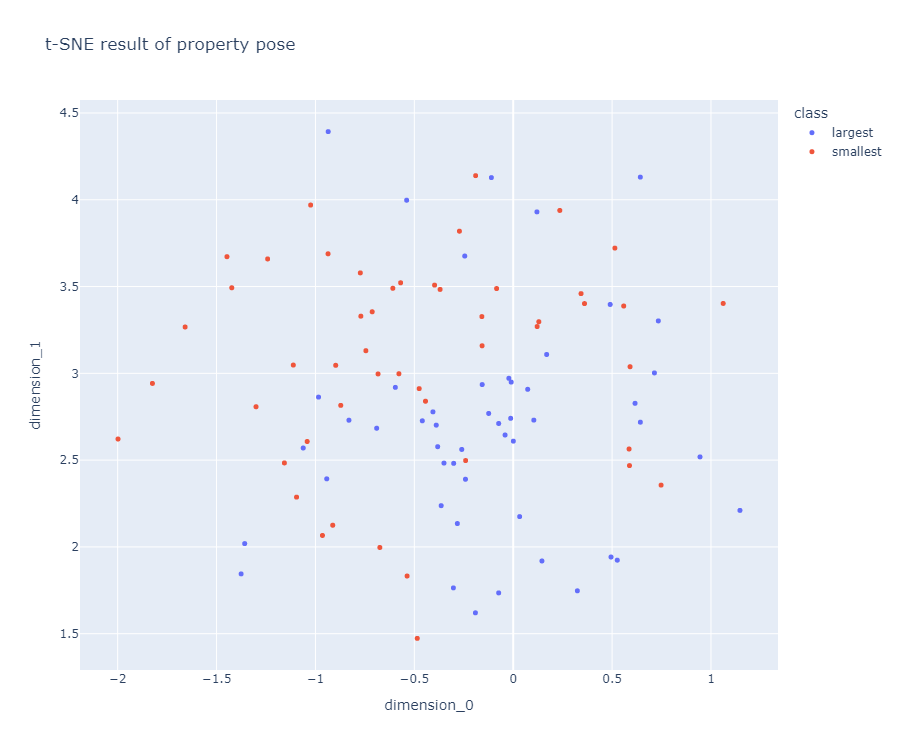
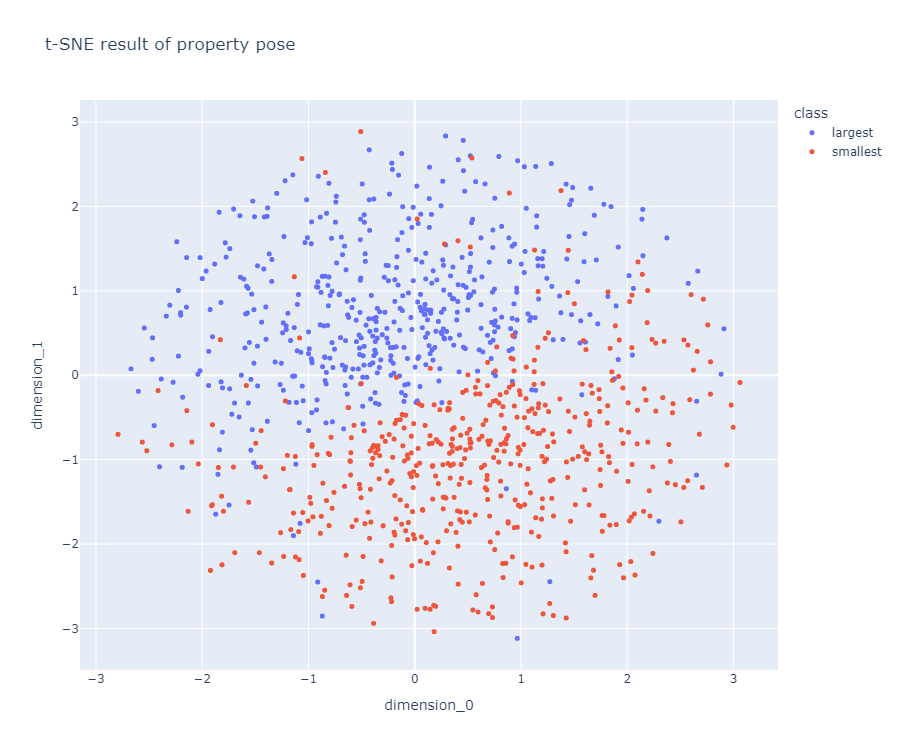
ADD: test result with 120K samples & top/bottom 500

diff --git a/2025_05_02_OhLoRA_v2/stylegan/stylegan_vectorfind_v6/run_vector_find.py b/2025_05_02_OhLoRA_v2/stylegan/stylegan_vectorfind_v6/run_vector_find.py
@@ -35,7 +35,7 @@ BATCH_SIZE = 20
 #                                    'mouth_cnn_score': list(float),
 #                                    'pose_cnn_score': list(float)}
 
-def sample_z_and_compute_property_scores(finetune_v1_generator, property_score_cnn, n=3000):
+def sample_z_and_compute_property_scores(finetune_v1_generator, property_score_cnn, n=120000):
     save_dir = f'{PROJECT_DIR_PATH}/stylegan/stylegan_vectorfind_v6/inference_test_during_training'
 
     z = np.random.normal(0, 1, size=(n, ORIGINAL_HIDDEN_DIMS_Z)).astype(np.float64)
@@ -101,7 +101,7 @@ def sample_z_and_compute_property_scores(finetune_v1_generator, property_score_c
 #                          'mouth_largest': list(int), 'mouth_smallest': list(int),
 #                          'pose_largest': list(int), 'pose_smallest': list(int)}
 
-def extract_best_and_worst_k_images(property_scores, k=50):
+def extract_best_and_worst_k_images(property_scores, k=500):
 
     # sort scores with index
     eyes_cnn_scores_with_idx = []

diff --git a/2025_05_02_OhLoRA_v2/stylegan/run_stylegan_vectorfind_v6.py b/2025_05_02_OhLoRA_v2/stylegan/run_stylegan_vectorfind_v6.py
@@ -13,7 +13,7 @@ IMAGE_RESOLUTION = 256
 
 ORIGINAL_HIDDEN_DIMS_Z = 512
 ORIGINALLY_PROPERTY_DIMS_Z = 3  # 원래 property (eyes, mouth, pose) 목적으로 사용된 dimension 값
-TEST_IMG_CASES = 20
+TEST_IMG_CASES = 50
 
 
 # Property Score 값을 변경하기 위해 latent vector z 에 가감할 벡터 정보 반환
@@ -68,7 +68,7 @@ def run_image_generation_test(finetune_v1_generator, eyes_vector, mouth_vector, 
         save_image(os.path.join(save_dir, f'case_{i:02d}_as_original.jpg'), images[0])
 
         for vector_name, vector in zip(vector_names, vectors):
-            pms = [-3.0, -1.0, 1.0, 3.0]
+            pms = [-2.0, -0.67, 0.67, 2.0]
 
             for pm_idx, pm in enumerate(pms):
                 with torch.no_grad():

diff --git a/2025_05_02_OhLoRA_v2/stylegan/stylegan_vectorfind_v6/svm_train_report/svm_train_report.md b/2025_05_02_OhLoRA_v2/stylegan/stylegan_vectorfind_v6/svm_train_report/svm_train_report.md
@@ -1,3 +1,36 @@
+## 2025.05.06 22:38
+
+* total synthesized samples = **120,000**
+* use each property score top **500 (= 0.42%)** & bottom **500 (= 0.42%)** for SVM training
+
+```
+training SVM for eyes ...
+accuracy          : 0.8750
+recall    (large) : 0.8500
+precision (large) : 0.8947
+F1 score  (large) : 0.8718
+recall    (small) : 0.9000
+precision (small) : 0.8571
+F1 score  (small) : 0.8780
+
+accuracy          : 0.8400
+recall    (large) : 0.8400
+precision (large) : 0.8400
+F1 score  (large) : 0.8400
+recall    (small) : 0.8400
+precision (small) : 0.8400
+F1 score  (small) : 0.8400
+
+training SVM for pose ...
+accuracy          : 0.9650
+recall    (large) : 0.9600
+precision (large) : 0.9697
+F1 score  (large) : 0.9648
+recall    (small) : 0.9700
+precision (small) : 0.9604
+F1 score  (small) : 0.9652
+```
+
 ## 2025.05.06 18:27
 
 * total synthesized samples = **60,000**
